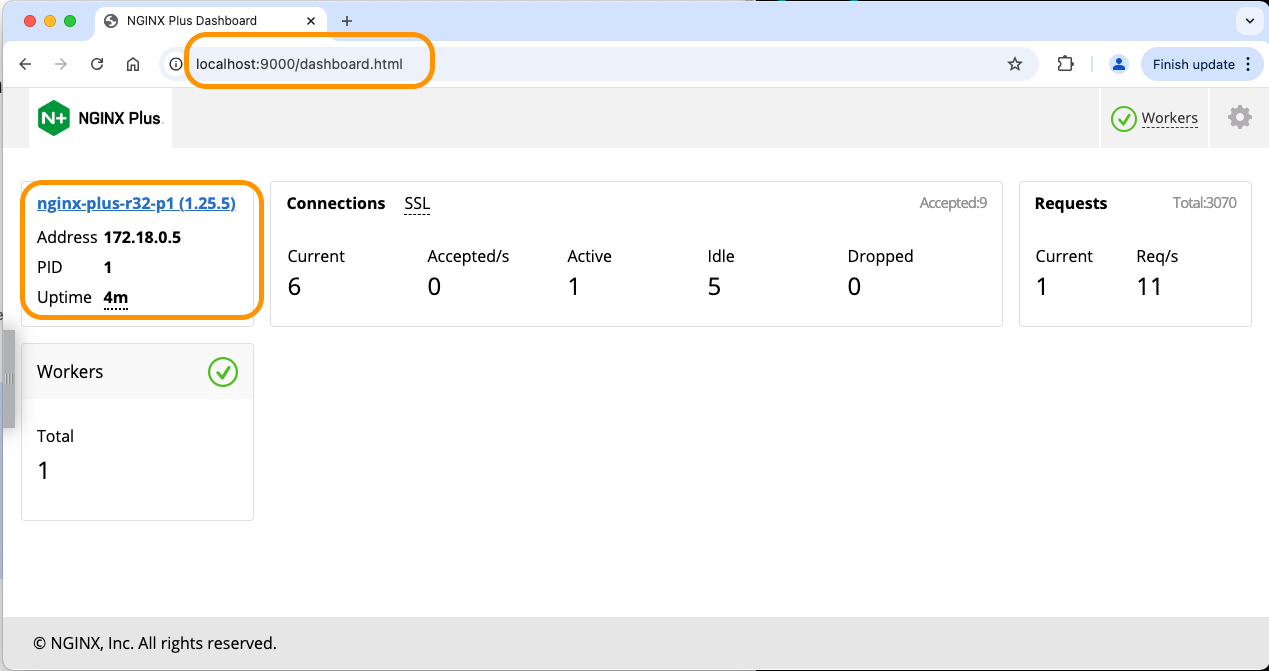
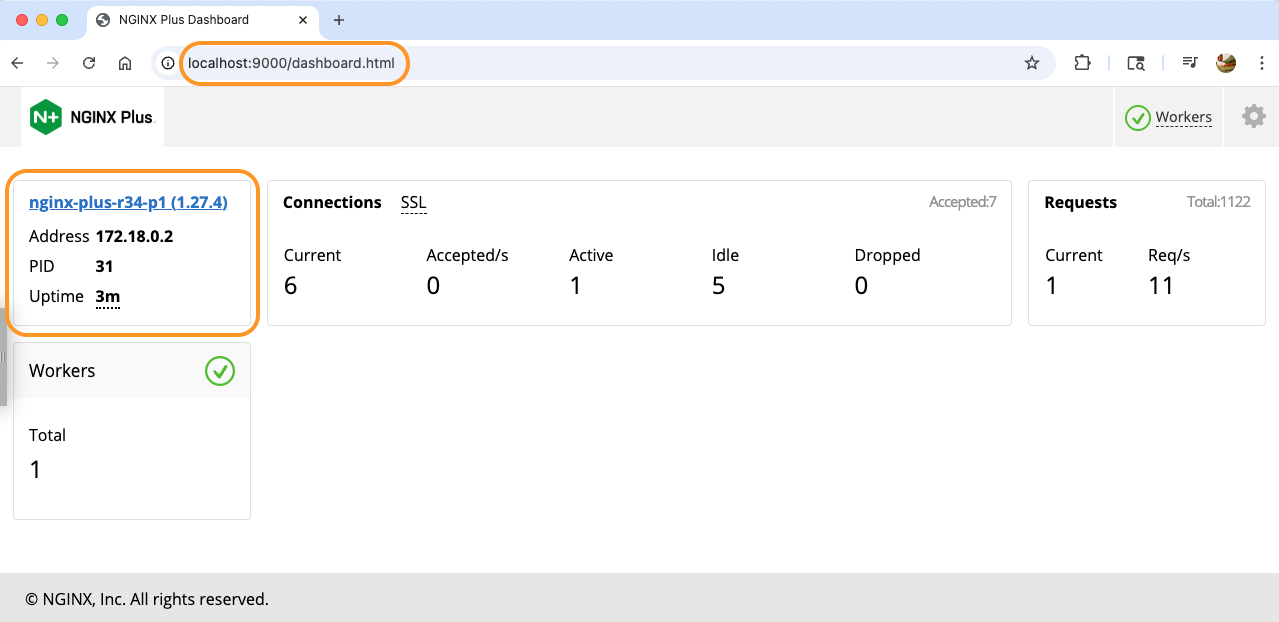
lab1 updates

diff --git a/Plus/labs/lab1/readme.md b/Plus/labs/lab1/readme.md
@@ -83,43 +83,57 @@ Visual Studio Code | Docker
 
 1. Open the Workshop folder with Visual Studio Code, or an IDE / text editor of your choice, so you can read and edit the files provided.
 
+    >**NOTE:** If you are using F5 provided UDF environment then jump to Step 5 and skip Step 2 - 4 as those steps cover downloading NGINX Plus license file which is already provided in the F5 UDF environment.
+
 1. Download and copy your NGINX Plus license files to your computer.  There are 3 files provided, you will need all three files `.crt and .key and .jwt` files for this Workshop:
 
     - `nginx-repo.crt`, TLS certificate for Plus Repo access
     - `nginx-repo.key`, TLS key for Plus Repo access
-    - `nginx-repo.jwt`, a JWT Token for the F5 container registry
+    - `nginx-repo.jwt`, a JWT Token to validate your subscription. This JWT Token is also used to access private F5 container registry
 
     If you need an NGINX Plus Trial license, you can request one here:
 
-    [NGINX Plus Trial](https://www.f5.com/trials/free-trial-nginx-plus-and-nginx-app-protect)
+    [NGINX Plus Trial](https://www.f5.com/trials/nginx-one)
 
     >After submitting the Trial Request form, you will receive an Email in a few minutes with links to download your three license files.  The links are only good for a one-time download.  *Notice - you will also likely receive F5 sales and marketing emails.*
 
-1. Copy your Plus TLS `nginx-repo.*` license files to the `lab1/nginx-plus/etc/ssl/nginx` folder within your workshop folder.  The nginx-repo.* files must be located in this exact folder for Docker compose to build the container properly.
+1. Copy your Plus `nginx-repo.crt` and `nginx-repo.key` license files to the `lab1/nginx-plus/etc/ssl/nginx` folder within your workshop folder.  The `nginx-repo.crt` and `nginx-repo.key` files must be located in this exact folder for Docker compose to build the container properly.
 
     ```bash
     # Example
-    cp /user/home/nginx-repo.* /user/home/nginx-basics-workshop/Plus/labs/lab1/nginx-plus/etc/ssl/nginx
+    cp /user/home/nginx-repo.crt /user/home/nginx-basics-workshop/Plus/labs/lab1/nginx-plus/etc/ssl/nginx
+    
+    cp /user/home/nginx-repo.key /user/home/nginx-basics-workshop/Plus/labs/lab1/nginx-plus/etc/ssl/nginx
+
+    ```
+
+1. Rename `nginx-repo.jwt` JWT token file to `license.jwt` and copy to the `lab1/nginx-plus/etc/nginx` folder within your workshop folder. The `license.jwt` file must be located in this exact folder for Docker compose to build the container properly.
+
+    ```bash
+    # Example
+    cp /user/home/nginx-repo.jwt /user/home/nginx-basics-workshop/Plus/labs/lab1/nginx-plus/etc/nginx/license.jwt
 
     ```
 
 1. Inspect the `docker-compose.yml` file, located in the /lab1 folder. Notice you start with building the NGINX-Plus container.  There are several folders that are mounted, and several TCP ports opened.
 
    ```bash
-    nginx-plus:              # NGINX Plus Web / Load Balancer
-        hostname: nginx-plus
-        container_name: nginx-plus
-        build: nginx-plus    # Build new container, using /nginx-plus/Dockerfile
-        volumes:
-            - ./nginx-plus/etc/nginx/conf.d:/etc/nginx/conf.d        # Copy these folders to container
-            - ./nginx-plus/etc/nginx/includes:/etc/nginx/includes
-            - ./nginx-plus/usr/share/nginx/html:/usr/share/nginx/html
-            - ./nginx-plus/etc/nginx/nginx.conf:/etc/nginx/nginx.conf
-        ports:
-            - 80:80       # Open for HTTP
-            - 443:443     # Open for HTTPS
-            - 9000:9000   # Open for dashboard & api
-        restart: always
+    nginx-plus:                  # NGINX Plus Web / Load Balancer
+    hostname: nginx-plus
+    container_name: nginx-plus
+    build: ./nginx-plus          # Build new container, using /nginx-plus/Dockerfile
+    image: nginx-plus:workshop
+    volumes:                     # Copy these files/folders to container
+        - ./nginx-plus/etc/nginx/license.jwt:/etc/nginx/license.jwt
+        - ./nginx-plus/etc/nginx/conf.d:/etc/nginx/conf.d        
+        - ./nginx-plus/etc/nginx/includes:/etc/nginx/includes
+        - ./nginx-plus/usr/share/nginx/html:/usr/share/nginx/html
+        - ./nginx-plus/etc/nginx/nginx.conf:/etc/nginx/nginx.conf
+    ports:
+        - 80:80       # Open for HTTP
+        - 443:443     # Open for HTTPS
+        - 9000:9000   # Open for Plus Dashboard page / API
+    restart: always 
 
    ```
 
@@ -151,7 +165,6 @@ Visual Studio Code | Docker
 
     ```bash
     curl http://localhost
-
     ```
 
     You should see the Nginx Welcome page.
@@ -170,7 +183,6 @@ In this section, you explore and learn about various Nginx and Linux commands us
 
     ```bash
     docker exec -it nginx-plus /bin/bash
-
     ```
 
 1. Run some commands inside the NGINX Plus Container:
@@ -178,12 +190,11 @@ In this section, you explore and learn about various Nginx and Linux commands us
     ```bash
     # Check NGINX help page
     nginx -h
-
     ```
 
     ```bash
     ##Sample Output##
-    nginx version: nginx/1.25.5 (nginx-plus-r32-p1)
+    nginx version: nginx/1.27.4 (nginx-plus-r34-p1)
     Usage: nginx [-?hvVtTq] [-s signal] [-p prefix]
              [-e filename] [-c filename] [-g directives]
 
@@ -206,63 +217,57 @@ In this section, you explore and learn about various Nginx and Linux commands us
     ```bash
     # What version of Nginx is running:
     nginx -v
-
     ```
 
     ```bash
     ##Sample Output##
-    nginx version: nginx/1.25.5 (nginx-plus-r32-p1)  # Notice the "-plus-rXX" label
+    nginx version: nginx/1.27.4 (nginx-plus-r34-p1)  # Notice the "-plus-rXX" label
 
     ```
 
     ```bash
     # List all modules and config settings of NGINX Plus:
     nginx -V
-
     ```
 
     ```bash
     ##Sample Output##
-    nginx version: nginx/1.25.5 (nginx-plus-r32-p1)
-    built by gcc 9.4.0 (Ubuntu 9.4.0-1ubuntu1~20.04.2) 
-    built with OpenSSL 1.1.1f  31 Mar 2020            # notice the OpenSSL version
+    nginx version: nginx/1.27.4 (nginx-plus-r34-p1)
+    built by gcc 12.2.0 (Debian 12.2.0-14+deb12u1) 
+    built with OpenSSL 3.0.16 11 Feb 2025           # notice the OpenSSL version
     TLS SNI support enabled
-    configure arguments: --prefix=/etc/nginx --sbin-path=/usr/sbin/nginx --modules-path=/usr/lib/nginx/modules --conf-path=/etc/nginx/nginx.conf --error-log-path=/var/log/nginx/error.log --http-log-path=/var/log/nginx/access.log --pid-path=/var/run/nginx.pid --lock-path=/var/run/nginx.lock --http-client-body-temp-path=/var/cache/nginx/client_temp --http-proxy-temp-path=/var/cache/nginx/proxy_temp --http-fastcgi-temp-path=/var/cache/nginx/fastcgi_temp --http-uwsgi-temp-path=/var/cache/nginx/uwsgi_temp --http-scgi-temp-path=/var/cache/nginx/scgi_temp --user=nginx --group=nginx --with-compat --with-file-aio --with-threads --with-http_addition_module --with-http_auth_request_module --with-http_dav_module --with-http_flv_module --with-http_gunzip_module --with-http_gzip_static_module --with-http_mp4_module --with-http_random_index_module --with-http_realip_module --with-http_secure_link_module --with-http_slice_module --with-http_ssl_module --with-http_stub_status_module --with-http_sub_module --with-http_v2_module --with-http_v3_module --with-mail --with-mail_ssl_module --with-stream --with-stream_realip_module --with-stream_ssl_module --with-stream_ssl_preread_module --build=nginx-plus-r31 --mgmt-id-path=/var/lib/nginx/nginx.id --with-http_auth_jwt_module --with-http_f4f_module --with-http_hls_module --with-http_proxy_protocol_vendor_module --with-http_session_log_module --with-mgmt --with-stream_mqtt_filter_module --with-stream_mqtt_preread_module --with-stream_proxy_protocol_vendor_module --with-cc-opt='-g -O2 -fdebug-prefix-map=/data/builder/debuild/nginx-plus-1.25.3/debian/debuild-base/nginx-plus-1.25.3=. -fstack-protector-strong -Wformat -Werror=format-security -Wp,-D_FORTIFY_SOURCE=2 -fPIC' --with-ld-opt='-Wl,-Bsymbolic-functions -Wl,-z,relro -Wl,-z,now -Wl,--as-needed -pie'
+    configure arguments: --prefix=/etc/nginx --sbin-path=/usr/sbin/nginx --modules-path=/usr/lib/nginx/modules --conf-path=/etc/nginx/nginx.conf --error-log-path=/var/log/nginx/error.log --http-log-path=/var/log/nginx/access.log --pid-path=/var/run/nginx.pid --lock-path=/var/run/nginx.lock --http-client-body-temp-path=/var/cache/nginx/client_temp --http-proxy-temp-path=/var/cache/nginx/proxy_temp --http-fastcgi-temp-path=/var/cache/nginx/fastcgi_temp --http-uwsgi-temp-path=/var/cache/nginx/uwsgi_temp --http-scgi-temp-path=/var/cache/nginx/scgi_temp --user=nginx --group=nginx --with-compat --with-file-aio --with-threads --with-http_addition_module --with-http_auth_request_module --with-http_dav_module --with-http_flv_module --with-http_gunzip_module --with-http_gzip_static_module --with-http_mp4_module --with-http_random_index_module --with-http_realip_module --with-http_secure_link_module --with-http_slice_module --with-http_ssl_module --with-http_stub_status_module --with-http_sub_module --with-http_v2_module --with-http_v3_module --with-mail --with-mail_ssl_module --with-stream --with-stream_realip_module --with-stream_ssl_module --with-stream_ssl_preread_module --build=nginx-plus-r34-p1 --state-path=/var/lib/nginx/state --with-http_auth_jwt_module --with-http_f4f_module --with-http_hls_module --with-http_oidc_module --with-http_proxy_protocol_vendor_module --with-http_session_log_module --with-mgmt --with-stream_mqtt_filter_module --with-stream_mqtt_preread_module --with-stream_proxy_protocol_vendor_module --system-ca-bundle=/etc/ssl/certs/ca-certificates.crt --with-cc-opt='-g -O2 -ffile-prefix-map=/home/builder/debuild/nginx-plus-1.27.4/debian/debuild-base/nginx-plus-1.27.4=. -fstack-protector-strong -Wformat -Werror=format-security -Wp,-D_FORTIFY_SOURCE=2 -fPIC' --with-ld-opt='-Wl,-z,relro -Wl,-z,now -Wl,--as-needed -pie'
 
     ```
 
     ```bash
     # List nginx packages installed
-
     dpkg-query -l | grep nginx
-    
     ```
 
     ```bash
     ##Sample Output##
-    ii  nginx-plus                   32-2~focal                        amd64        NGINX Plus, provided by Nginx, Inc.
-    ii  nginx-plus-module-njs        32+0.8.5-1~focal                  amd64        NGINX Plus njs dynamic modules
-    ii  nginx-plus-module-prometheus 32+1.3.6-1~focal                  amd64        NGINX Plus Prometheus exporter NJS module
+    ii  nginx-plus                  34-2~bookworm                  arm64        NGINX Plus, provided by Nginx, Inc.
+    ii  nginx-plus-module-njs       34+0.8.9-1~bookworm            arm64        NGINX Plus njs dynamic modules
     ```
 
     ```bash
      dpkg -s nginx-plus
-    
     ```
 
-    ```
+    ```bash
     ##Sample Output##
     Package: nginx-plus
     Status: install ok installed
     Priority: optional
     Section: httpd
-    Installed-Size: 7125
+    Installed-Size: 5173
     Maintainer: NGINX Packaging <nginx-packaging@f5.com>
-    Architecture: amd64
-    Version: 32-2~focal
+    Architecture: arm64
+    Version: 34-2~bookworm
     Replaces: nginx, nginx-core, nginx-plus-debug
-    Provides: httpd, nginx, nginx-plus-r32
-    Depends: libc6 (>= 2.28), libcrypt1 (>= 1:4.1.0), libpcre2-8-0 (>= 10.22), libssl1.1 (>= 1.1.1), zlib1g (>= 1:1.1.4), lsb-base (>= 3.0-6)
+    Provides: httpd, nginx, nginx-plus-r34
+    Depends: libc6 (>= 2.34), libcrypt1 (>= 1:4.1.0), libpcre2-8-0 (>= 10.22), libssl3 (>= 3.0.0), zlib1g (>= 1:1.1.4), lsb-base (>= 3.0-6), ca-certificates
     Recommends: logrotate
     Conflicts: nginx, nginx-common, nginx-core
     Conffiles:
@@ -272,7 +277,7 @@ In this section, you explore and learn about various Nginx and Linux commands us
     /etc/nginx/conf.d/default.conf 5e054c6c3b2901f98e0d720276c3b20c
     /etc/nginx/fastcgi_params 4729c30112ca3071f4650479707993ad
     /etc/nginx/mime.types 754582375e90b09edaa6d3dbd657b3cf
-    /etc/nginx/nginx.conf 563e30e020178f0db80bd2a87d6232a6
+    /etc/nginx/nginx.conf e7b0272ab0408de48c8440432787ba7b
     /etc/nginx/scgi_params df8c71e25e0356ffc539742f08fddfff
     /etc/nginx/uwsgi_params 88ac833ee8ea60904a8b3063fde791de
     Description: NGINX Plus, provided by Nginx, Inc.
@@ -282,40 +287,39 @@ In this section, you explore and learn about various Nginx and Linux commands us
     session persistence and on-the-fly configuration; Improved content caching;
     Enhanced status and monitoring information; Streaming media delivery.
     Homepage: https://www.nginx.com/
+
     ```
 
     ```bash
     # What nginx processes are running?
     ps aux |grep nginx
-
     ```
 
     ```bash
     ##Sample Output##
-    root         1  0.0  0.0  10544  7040 ?        Ss   18:27   0:00 nginx: master process nginx -g daemon off;
-    nginx        7  0.0  0.0  92924  4312 ?        S    18:27   0:00 nginx: worker process
-    root        50  0.0  0.0   3312  1792 pts/0    S+   19:00   0:00 grep --color=auto nginx
+   root        31  0.1  0.1  12608  9108 ?        S    22:24   0:00 nginx: master process /usr/sbin/nginx -g daemon off;
+    nginx       32  0.0  0.1  86996  8296 ?        S    22:24   0:00 nginx: worker process
+    root        41  0.0  0.0   3080  1356 pts/0    S+   22:25   0:00 grep nginx
 
     ```
 
     ```bash
     # Which TCP Ports are being used by NGINX ?
     netstat -alpn
-
     ```
 
     ```bash
     ##Sample output##
     Active Internet connections (servers and established)
-    Proto Recv-Q Send-Q Local Address           Foreign Address         State       PID/Program name
-    tcp        0      0 0.0.0.0:80              0.0.0.0:*               LISTEN      1/nginx: master pro
-    tcp        0      0 127.0.0.11:33521        0.0.0.0:*               LISTEN      -
-    tcp        0      0 0.0.0.0:9000            0.0.0.0:*               LISTEN      1/nginx: master pro
-    udp        0      0 127.0.0.11:58307        0.0.0.0:*                           -
+    Proto Recv-Q Send-Q Local Address           Foreign Address         State       PID/Program name    
+    tcp        0      0 0.0.0.0:80              0.0.0.0:*               LISTEN      31/nginx: master pr 
+    tcp        0      0 127.0.0.11:46387        0.0.0.0:*               LISTEN      -                   
+    udp        0      0 127.0.0.11:47095        0.0.0.0:*                           -                   
     Active UNIX domain sockets (servers and established)
     Proto RefCnt Flags       Type       State         I-Node   PID/Program name     Path
-    unix  3      [ ]         STREAM     CONNECTED     634      1/nginx: master pro
-    unix  3      [ ]         STREAM     CONNECTED     635      1/nginx: master pro
+    unix  3      [ ]         STREAM     CONNECTED     27341    31/nginx: master pr  
+    unix  3      [ ]         STREAM     CONNECTED     27342    31/nginx: master pr  
+    unix  2      [ ACC ]     STREAM     LISTENING     35714    1/python3            /var/run/supervisor.sock.1
 
     ```
 
@@ -324,13 +328,11 @@ In this section, you explore and learn about various Nginx and Linux commands us
     ls -l /etc/nginx
 
     ls -l /etc/nginx/conf.d
-
     ```
 
     ```bash
     # Test the current NGINX configuration
     nginx -t
-
     ```
 
     ```bash
@@ -343,13 +345,11 @@ In this section, you explore and learn about various Nginx and Linux commands us
     ```bash
     # Reload Nginx - checks your new config and reloads Nginx
     nginx -s reload
-
     ```
 
     ```bash
     # Display the entire NGINX configuration, includes all files
     nginx -T
-
     ```
 
     ```bash

diff --git a/Plus/labs/lab0/prerequisites.md b/Plus/labs/lab0/prerequisites.md
@@ -17,7 +17,7 @@ By the end of this Prerequisite instructions, you will be ready to do the Worksh
 
 ## F5 Distributed Cloud Accout
 
-You will need an F5 Distributed Cloud account to complete the Nginx ONE Console lab exercises.  If you do not have an Account, please contact your F5 Sales Representative for more information.
+You will need an F5 Distributed Cloud account to complete the Nginx ONE Console lab exercise (lab 7).  If you do not have an Account, please contact your F5 Sales Representative for more information.
 
 ## Hardware Requirments
 
